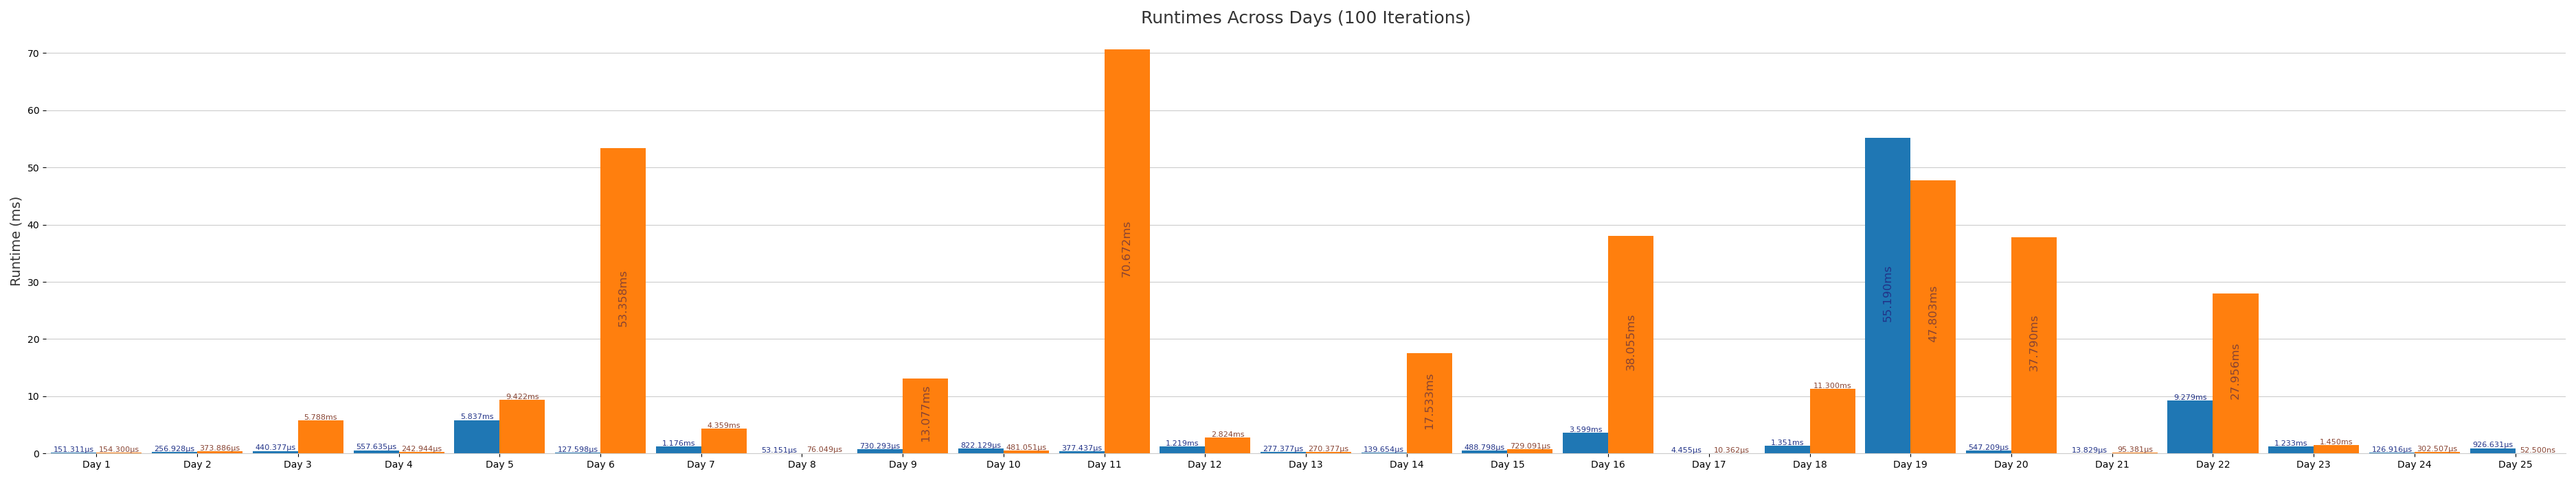
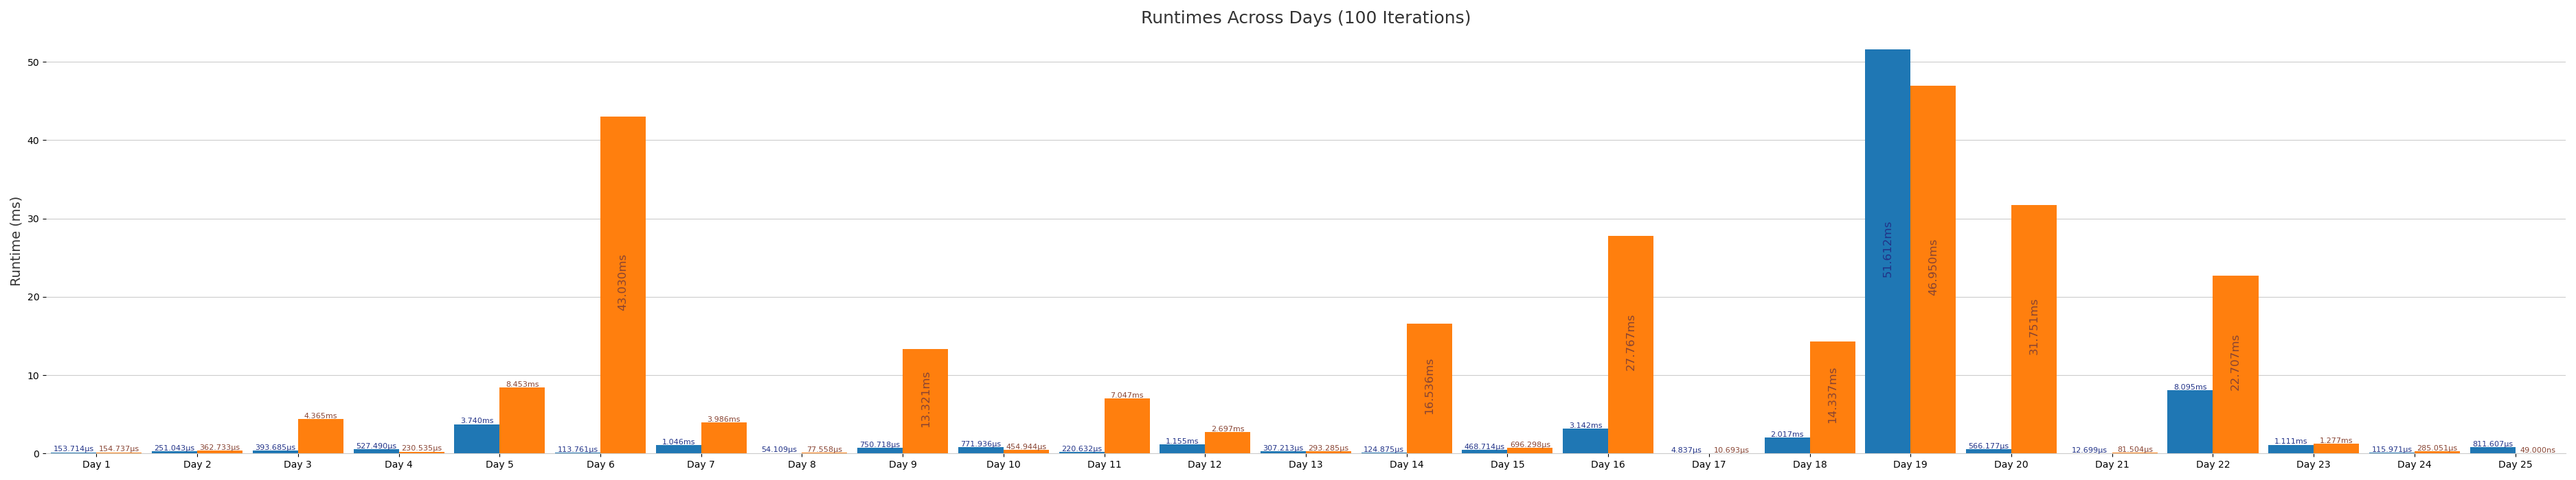
Day 11 🚀

diff --git a/day11/src/main.rs b/day11/src/main.rs
@@ -1,11 +1,12 @@
+use ahash::AHashMap;
 use std::fs;
 
 fn read_file(path: &str) -> String {
     fs::read_to_string(path).expect("Could not read file")
 }
 
-const ANSWER_ONE: usize = 55312;
-const ANSWER_TWO: usize = 65601038650482;
+const ANSWER_ONE: u64 = 55312;
+const ANSWER_TWO: u64 = 65601038650482;
 
 fn test_examples() -> [bool; 2] {
     let example = read_file("src/example");
@@ -47,89 +48,65 @@ fn main() {
 
 /* ------------------- Helpers ------------------- */
 
-fn parse_input(input: &str) -> Vec<u64> {
-    input
+/// Parses the input into a hashmap of numbers and their number of occurrences.
+fn parse_input(input: &str) -> AHashMap<u64, u64> {
+    let numbers = input
         .split_whitespace()
         .map(|x| x.parse::<u64>().unwrap())
-        .collect::<Vec<u64>>()
-}
+        .collect::<Vec<u64>>();
 
-fn digit_count(mut number: u64) -> usize {
-    let mut result: usize = 0;
-    while number > 0 {
-        number /= 10;
-        result += 1;
+    // Run through the numbers and add them to the hashmap
+    let mut bundled_numbers = AHashMap::new();
+    for number in numbers.iter() {
+        add_number(&mut bundled_numbers, *number, 1);
     }
 
-    result
+    bundled_numbers
 }
 
-fn add_number(numbers: &mut Vec<(u64, usize)>, number: u64, count: usize) {
-    if let Some(prev) = numbers.iter_mut().find(|x| x.0 == number) {
-        prev.1 += count;
+fn add_number(numbers: &mut AHashMap<u64, u64>, number: u64, count: u64) {
+    if numbers.contains_key(&number) {
+        numbers.insert(number, numbers.get(&number).unwrap() + count);
     } else {
-        numbers.push((number, count));
+        numbers.insert(number, count);
     }
+}
+
+fn handle_blinking<const N: usize>(numbers_cache: AHashMap<u64, u64>) -> AHashMap<u64, u64> {
+    let mut current_cache = numbers_cache;
+    for _ in 0..N {
+        let mut next_cache: AHashMap<u64, u64> = AHashMap::new();
+        for (number, count) in current_cache.iter() {
+            let digit_count = if *number == 0 { 0 } else { number.ilog10() + 1 };
+
+            if *number == 0 {
+                add_number(&mut next_cache, 1, *count);
+            } else if digit_count % 2 == 0 {
+                let scale = 10_u64.pow(digit_count / 2);
+                add_number(&mut next_cache, *number / scale, *count);
+                add_number(&mut next_cache, *number % scale, *count);
+            } else {
+                add_number(&mut next_cache, (*number * 253) << 3, *count);
+            }
+        }
+        current_cache = next_cache;
+    }
+
+    current_cache
 }
 
 /* ------------------- Solutions ------------------- */
 
 #[allow(unused_variables)]
-fn first_part(input: &str) -> usize {
-    let numbers: Vec<u64> = parse_input(input);
-
-    let mut bundled_numbers: Vec<(u64, usize)> = vec![];
-    for number in numbers.iter() {
-        add_number(&mut bundled_numbers, *number, 1);
-    }
-
-    for i in 0..25 {
-        let mut next_numbers: Vec<(u64, usize)> = vec![];
-        for (number, count) in bundled_numbers.iter() {
-            let digit_count = digit_count(*number);
-
-            if *number == 0 {
-                add_number(&mut next_numbers, 1, *count);
-            } else if digit_count % 2 == 0 {
-                let scale = 10_i64.pow(digit_count as u32 / 2) as u64;
-                add_number(&mut next_numbers, *number / scale, *count);
-                add_number(&mut next_numbers, *number % scale, *count);
-            } else {
-                add_number(&mut next_numbers, *number * 2024, *count);
-            }
-        }
-        bundled_numbers = next_numbers;
-    }
-
-    bundled_numbers.iter().map(|x| x.1).sum()
+fn first_part(input: &str) -> u64 {
+    let numbers_cache = parse_input(input);
+    let after_blinking = handle_blinking::<25>(numbers_cache);
+    after_blinking.iter().map(|x| x.1).sum()
 }
 
 #[allow(unused_variables)]
-fn second_part(input: &str) -> usize {
-    let numbers: Vec<u64> = parse_input(input);
-
-    let mut bundled_numbers: Vec<(u64, usize)> = vec![];
-    for number in numbers.iter() {
-        add_number(&mut bundled_numbers, *number, 1);
-    }
-
-    for i in 0..75 {
-        let mut next_numbers: Vec<(u64, usize)> = vec![];
-        for (number, count) in bundled_numbers.iter() {
-            let digit_count = digit_count(*number);
-
-            if *number == 0 {
-                add_number(&mut next_numbers, 1, *count);
-            } else if digit_count % 2 == 0 {
-                let scale = 10_i64.pow(digit_count as u32 / 2) as u64;
-                add_number(&mut next_numbers, *number / scale, *count);
-                add_number(&mut next_numbers, *number % scale, *count);
-            } else {
-                add_number(&mut next_numbers, *number * 2024, *count);
-            }
-        }
-        bundled_numbers = next_numbers;
-    }
-
-    bundled_numbers.iter().map(|x| x.1).sum::<usize>()
+fn second_part(input: &str) -> u64 {
+    let numbers_cache = parse_input(input);
+    let after_blinking = handle_blinking::<75>(numbers_cache);
+    after_blinking.iter().map(|x| x.1).sum()
 }

diff --git a/README.md b/README.md
@@ -29,7 +29,7 @@ The code for benchmarking is in [**benchmark.py**](./benchmark.py), also can see
 |  [Day 8](./day8/src/main.rs)  | 52.981µs  | 78.335µs  |
 |  [Day 9](./day9/src/main.rs)  | 908.505µs | 20.230ms  |
 | [Day 10](./day10/src/main.rs) | 799.292µs | 462.095µs |
-| [Day 11](./day11/src/main.rs) | 378.809µs | 65.883ms  |
+| [Day 11](./day11/src/main.rs) | 220.632µs |  7.047ms  |
 | [Day 12](./day12/src/main.rs) |  1.237ms  |  2.941ms  |
 | [Day 13](./day13/src/main.rs) | 297.899µs | 288.994µs |
 | [Day 14](./day14/src/main.rs) | 152.921µs |    ---    |
